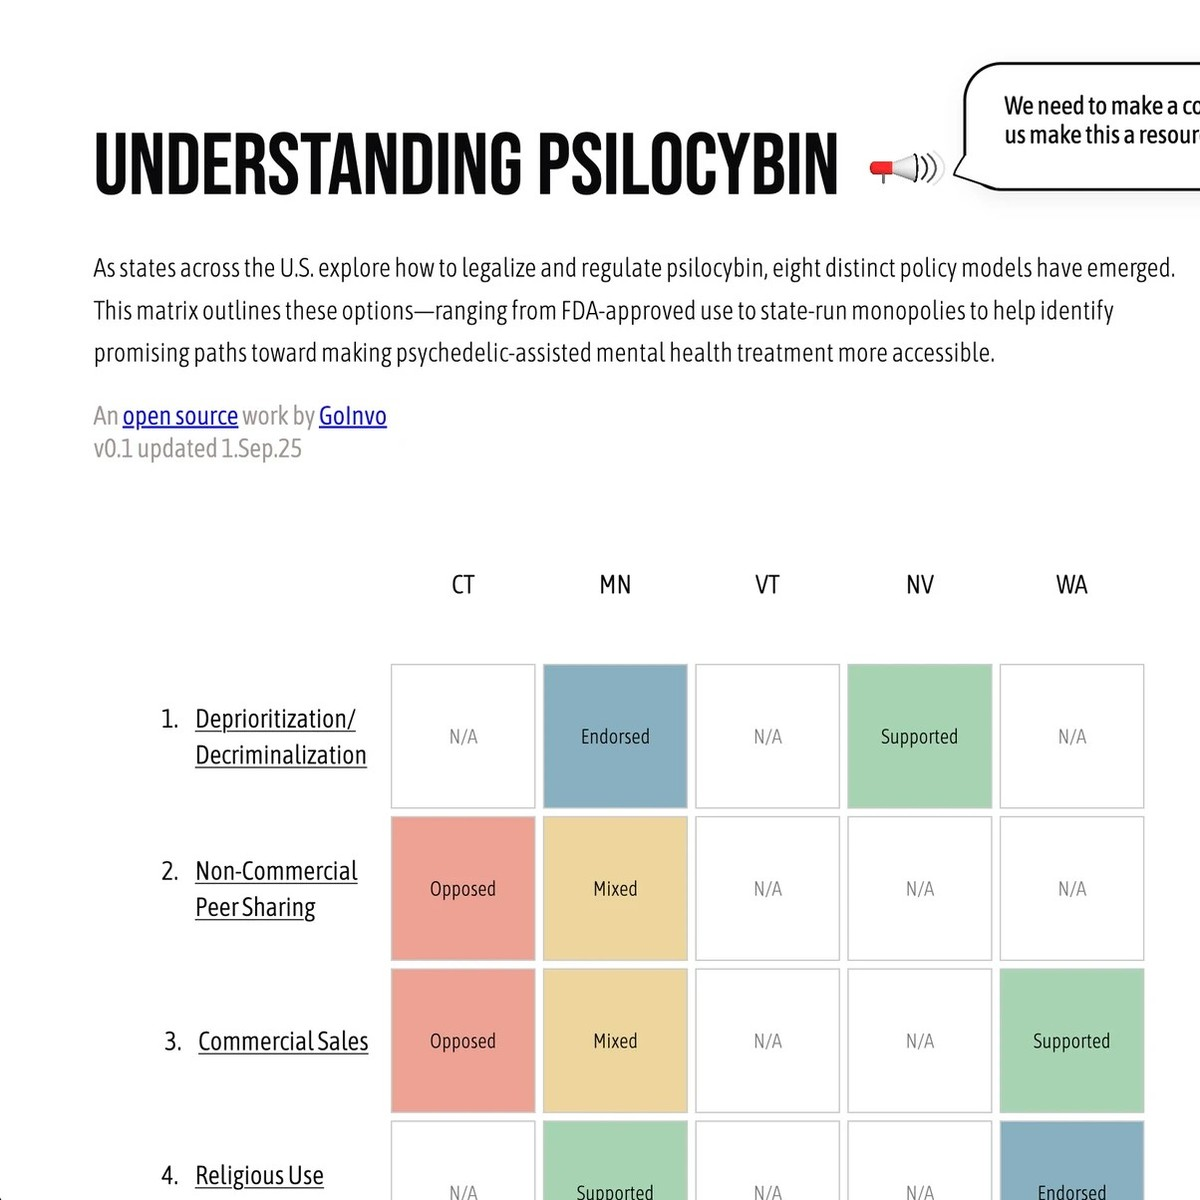
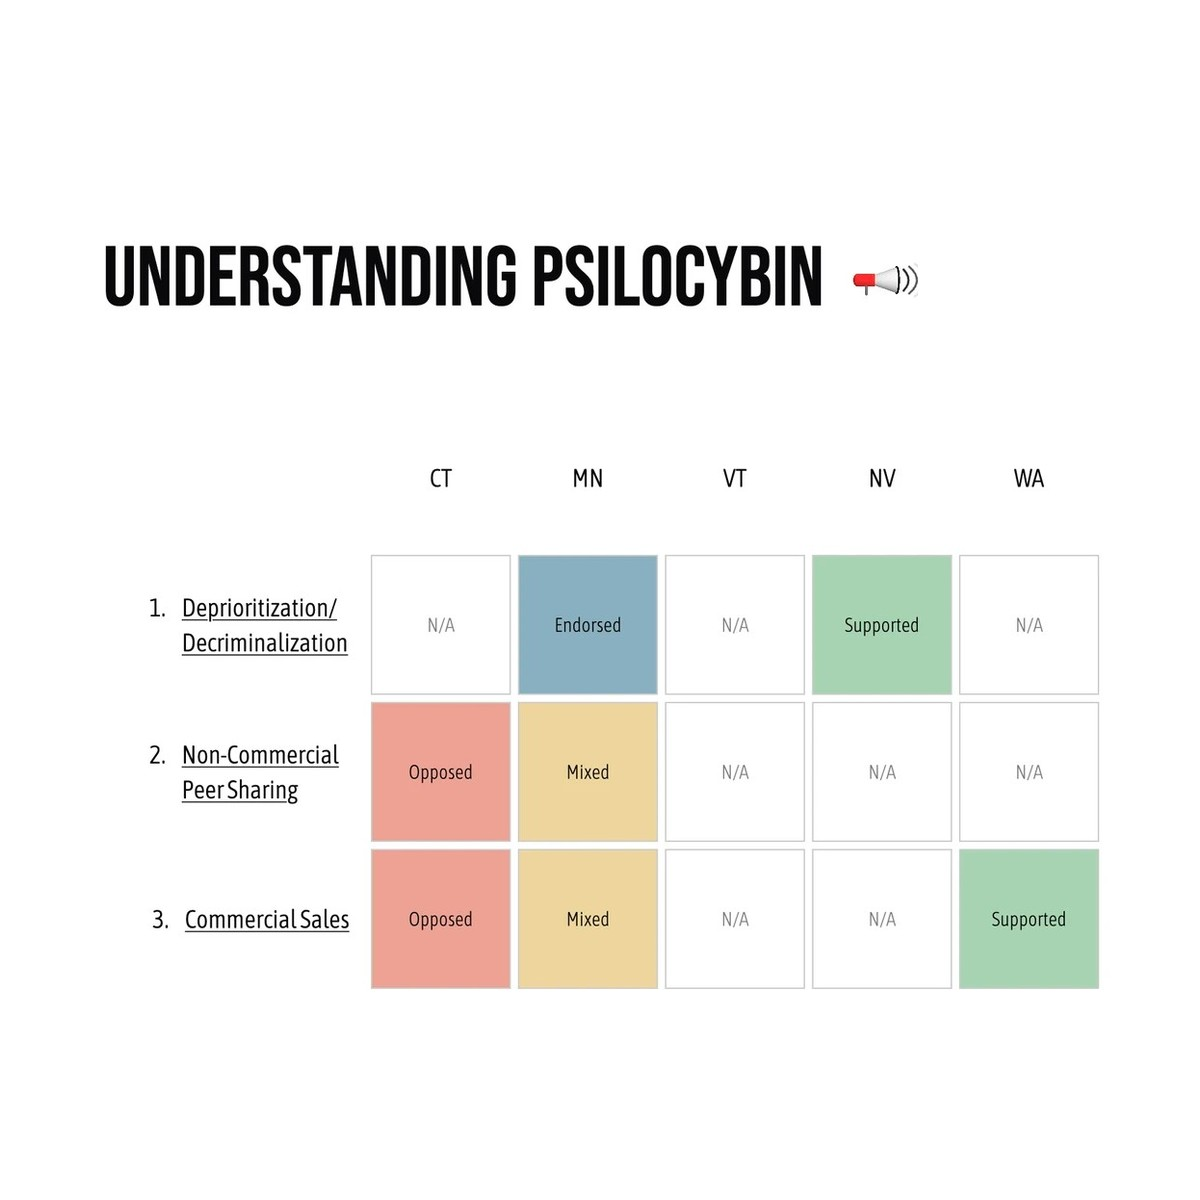
Update psilocybin project page and card image

diff --git a/projects/understanding-psilocybin.html b/projects/understanding-psilocybin.html
@@ -59,10 +59,6 @@
         <p class="cs-summary">An open-source, interactive matrix that lays out the eight policy models U.S. states are using to legalize or regulate psilocybin, from decriminalization to state-run sales, and shows where five states that have published official reports stand on each. I designed and built it in four weeks during my internship at GoInvo, a healthcare design studio, as the newest entry in its series of plain-language public health explainers. The goal was a page a legislator, clinician, or curious voter could read at a glance without the comparison losing its accuracy.</p>
       </header>
 
-      <div class="media cs-hero">
-        <img src="../assets/img/projects/psilo-hero.jpg" alt="The Understanding Psilocybin website: a title, a short introduction, and a color-coded matrix with eight policy models as rows and five states (CT, MN, VT, NV, WA) as columns, each cell reading Endorsed, Supported, Mixed, Opposed, or N/A" style="object-position:left top">
-      </div>
-
       <dl class="glance">
         <div><dt class="label">My role</dt><dd>UI designer and front-end developer</dd></div>
         <div><dt class="label">Timeline</dt><dd>July 2025, four weeks</dd></div>
@@ -170,8 +166,15 @@
           <p>Understanding Psilocybin is live at <a href="https://understandingpsilocybin.org/" target="_blank" rel="noopener">understandingpsilocybin.org &#8599;</a> as an open-source GoInvo project, with the <a href="https://github.com/yanmaggie53/goinvo-understanding-psilocybin" target="_blank" rel="noopener">code on GitHub &#8599;</a>. It covers eight policy models and five states and is framed as v0.1, with an open call for feedback, funding, and collaborators to grow it into a comprehensive U.S. report. The design decisions carry over to the next states that publish: a new column, the same five labels.</p>
         </div>
         <figure class="figure" style="margin-top:28px">
-          <div class="media"><img src="../assets/img/projects/psilo-matrix-bottom.jpg" alt="The lower half of the live matrix, rows 4 through 8, followed by the heading Help us make this real and a request for feedback and funding" loading="lazy" style="object-position:left top"></div>
-          <figcaption>The lower half of the matrix and the open call that closes the page: feedback, funding, and a few brave new allies.</figcaption>
+          <div class="browser">
+            <div class="browser__bar">
+              <span class="browser__dots" aria-hidden="true"><i></i><i></i><i></i></span>
+              <span class="browser__url">understandingpsilocybin.org</span>
+              <a class="browser__open" href="https://understandingpsilocybin.org/" target="_blank" rel="noopener">Open full size &#8599;</a>
+            </div>
+            <iframe src="https://understandingpsilocybin.org/" title="Understanding Psilocybin: the live site" loading="lazy"></iframe>
+          </div>
+          <figcaption>The live site, embedded. Scroll inside the window to see all eight models, the references, and the open call for feedback.</figcaption>
         </figure>
       </section>
 
